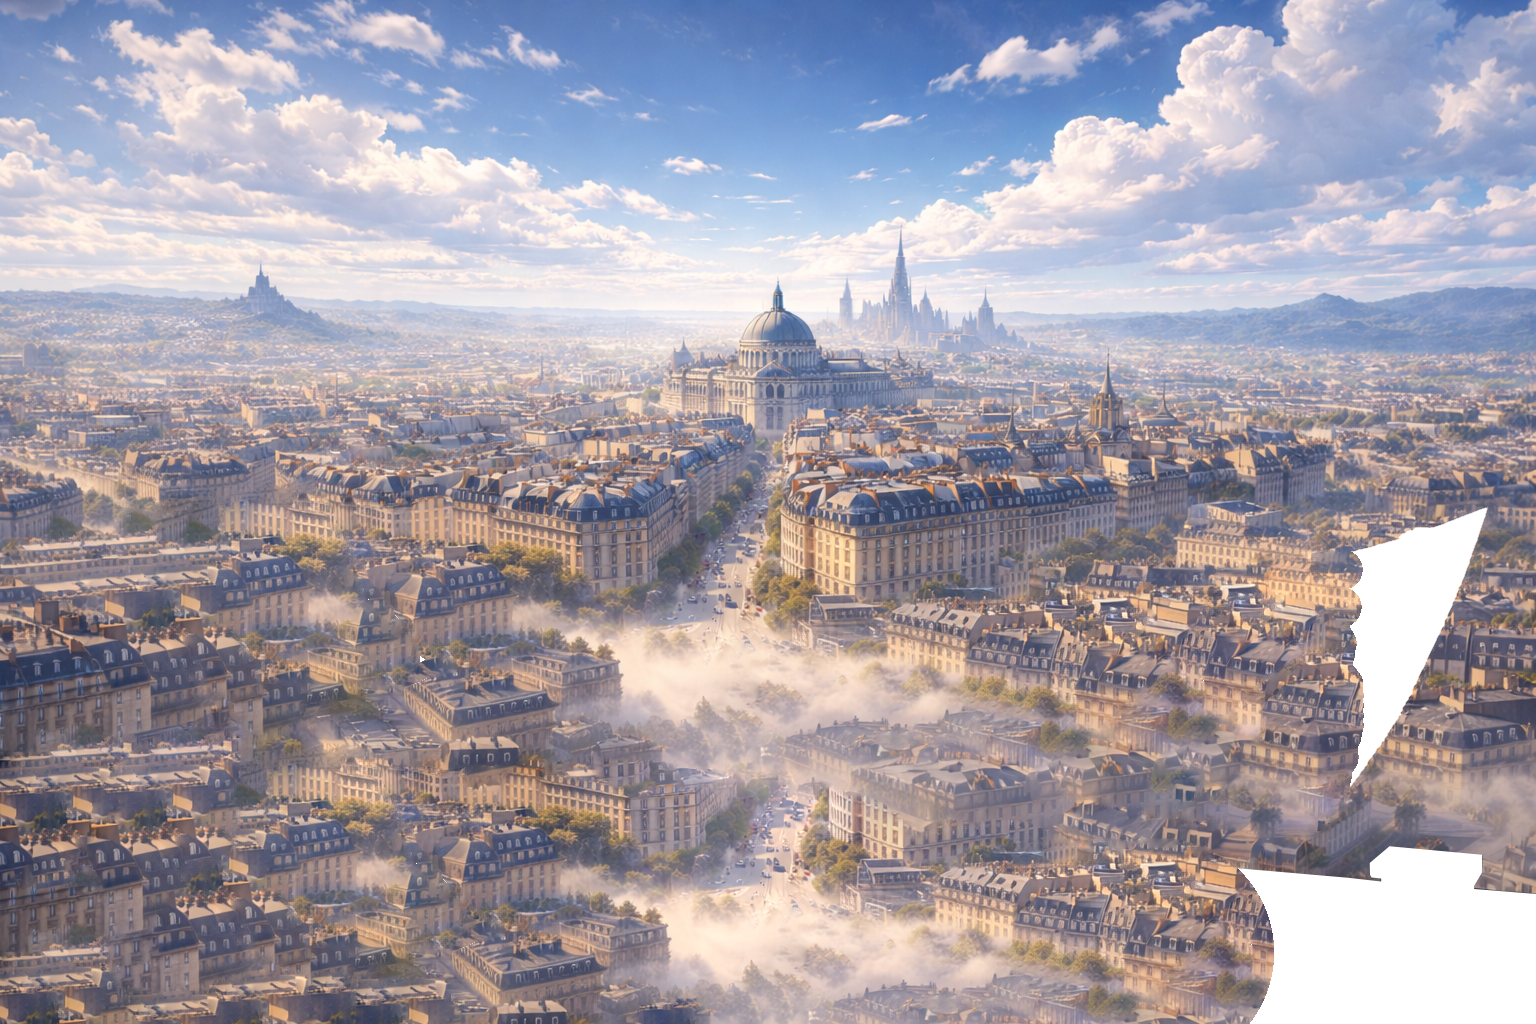
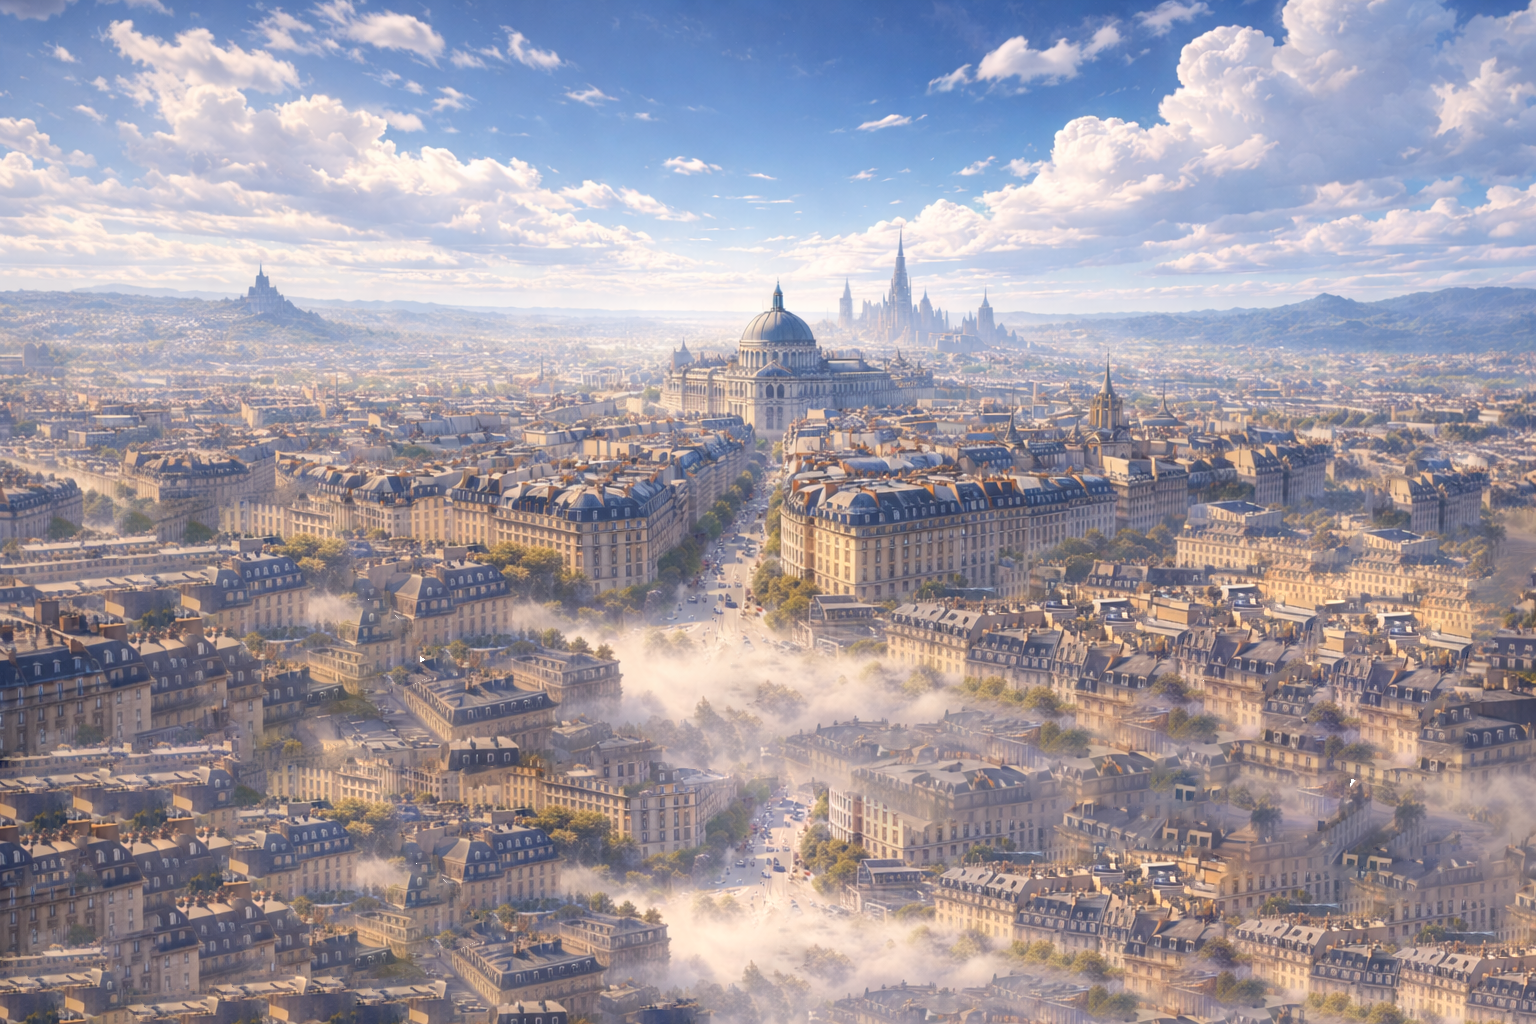
good

Changed region(s): [[0.8438, 0.4375, 1.0, 0.7812], [0.7812, 0.8125, 1.0, 1.0]]

diff --git a/components/background.tsx b/components/background.tsx
@@ -95,21 +95,51 @@ const VideoWithPlaceholder = ({
 export const Background = ({
   src,
   placeholder,
+  foregroundSrc,
 }: {
   src: string;
   placeholder?: string;
+  foregroundSrc?: string;
 }) => {
   const extension = getFileExtension(src);
   const isVideoFile = isVideo(extension);
 
-  const classNames =
-    "absolute bg-background left-0 top-0 w-full h-full object-cover rounded-[42px] md:rounded-[72px]";
+  const mediaClassNames =
+    "absolute left-0 top-0 h-full w-full object-cover rounded-[42px] md:rounded-[72px]";
+  const videoMediaClassNames = cn(mediaClassNames, "bg-background");
+  const containerClassNames =
+    "absolute inset-0 overflow-hidden rounded-[42px] md:rounded-[72px]";
+
+  if (foregroundSrc) {
+    return (
+      <div className={containerClassNames}>
+        <Image
+          priority
+          loading="eager"
+          src={src}
+          alt="Background landscape"
+          className={cn(mediaClassNames, "hero-base-layer")}
+          sizes="100vw"
+          fill
+        />
+        <Image
+          priority
+          loading="eager"
+          src={foregroundSrc}
+          alt="Background foreground"
+          className={cn(mediaClassNames, "hero-foreground-layer")}
+          sizes="100vw"
+          fill
+        />
+      </div>
+    );
+  }
 
   if (isVideoFile) {
     return (
       <VideoWithPlaceholder
         src={src}
-        className={classNames}
+        className={videoMediaClassNames}
         placeholder={placeholder}
       />
     );
@@ -121,7 +151,7 @@ export const Background = ({
       loading="eager"
       src={src}
       alt="Background"
-      className={classNames}
+      className={videoMediaClassNames}
       sizes="100vw"
       fill
     />

diff --git a/app/globals.css b/app/globals.css
@@ -64,6 +64,54 @@
   }
 }
 
+@keyframes hero-base-breathe {
+  0%,
+  100% {
+    opacity: 1;
+    transform: scale(1.02) translate3d(0, 0, 0);
+  }
+  50% {
+    opacity: 0.96;
+    transform: scale(1.08) translate3d(-0.75%, -0.6%, 0);
+  }
+}
+
+@keyframes hero-foreground-breathe {
+  0%,
+  100% {
+    opacity: 1;
+    transform: scale(1) translate3d(0, 1.2%, 0);
+  }
+  50% {
+    opacity: 1;
+    transform: scale(1.055) translate3d(0.4%, -0.9%, 0);
+  }
+}
+
+.hero-base-layer,
+.hero-foreground-layer {
+  backface-visibility: hidden;
+  transform-origin: center center;
+  will-change: opacity, transform;
+}
+
+.hero-base-layer {
+  animation: hero-base-breathe 13s ease-in-out infinite;
+}
+
+.hero-foreground-layer {
+  animation: hero-foreground-breathe 13s ease-in-out infinite;
+}
+
+@media (prefers-reduced-motion: reduce) {
+  .hero-base-layer,
+  .hero-foreground-layer {
+    animation: none;
+    opacity: 1;
+    transform: none;
+  }
+}
+
 @layer base {
   * {
     @apply border-border;

diff --git a/app/page.tsx b/app/page.tsx
@@ -6,7 +6,10 @@ export default function Home() {
   return (
     <main className="p-inset h-[100dvh] w-full">
       <div className="relative h-full w-full">
-        <Background src="https://hebbkx1anhila5yf.public.blob.vercel-storage.com/alt-g7Cv2QzqL3k6ey3igjNYkM32d8Fld7.mp4" placeholder="/alt-placeholder.png" />
+        <Background
+          src="/paris_landscape.png"
+          foregroundSrc="/paris_man.png"
+        />
         <Newsletter />
         <Footer />
       </div>
